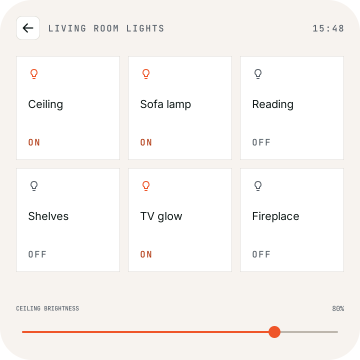
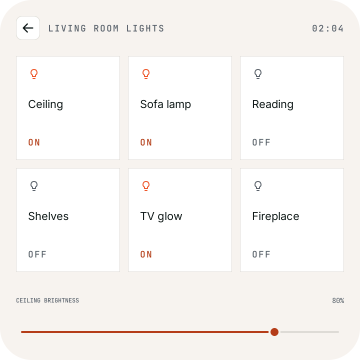
Grid: a row or hug grid refuses Entity tiles; the lights example fixed
An Entity tile fills its cell, and a row / hug grid sizes its cells to
their content, so the tile drew 0 px. The spec checker now refuses it
(bad_slot at .nodes[i].c or .cell.c, naming the component and why): a
spec that would draw nothing is refused, never rendered empty.

The AI example "Living room lights" used both faults: its grid loses
aspect row and its Slider the width prop it never had, so a panel takes
it (KNOWN_REFUSED is empty). Its docs shots re-rendered. Before/after at
720 and 480 seen and approved.

diff --git a/renderer/core/spec.h b/renderer/core/spec.h
@@ -600,6 +600,17 @@ inline void check_grid(ArduinoJson::JsonVariantConst n, ArduinoJson::JsonArrayCo
     else if (sa.size() != 2 || !sa[0].is<int>() || !sa[1].is<int>() || sa[0].as<int>() < 1 || sa[0].as<int>() > cols || sa[1].as<int>() < 1 || sa[1].as<int>() > 8)
       err(e, p + ".span", "bad_span", "span is [columns 1.." + std::to_string(cols) + ", rows 1..8]");
   }
+  // a row / hug grid sizes its cells to their content; a component with no size of its own (it fills its cell) draws
+  // nothing there, so the spec is refused, never rendered empty
+  auto sized_by_cell = [](const std::string &comp, ArduinoJson::JsonVariantConst g, const std::string &path, Errs &e) {
+    const char *a = g["p"]["aspect"] | "square";
+    if (comp == "entity_tile" && (!strcmp(a, "row") || !strcmp(a, "hug")))
+      err(e, path, "bad_slot", comp + " fills its cell and a grid with aspect " + a + " sizes its cells to their content: it would draw 0 px; use aspect square or wide");
+  };
+  if (n["in"].is<int>()) {
+    const int k = n["in"] | -1;
+    if (k >= 0 && k < i && !strcmp(nodes[k]["c"] | "", "grid")) sized_by_cell(c, nodes[k], p + ".c", e);
+  }
   if (c == "grid") {
     if (!n["p"]["cols"].isNull() && !n["p"]["min"].isNull()) err(e, p + ".p.min", "bad_prop", "cols or min, not both");
     if (!n["cell"].isNull() && n["p"]["items"].isNull()) err(e, p + ".cell", "bad_cell", "cell goes with items");
@@ -613,6 +624,7 @@ inline void check_grid(ArduinoJson::JsonVariantConst n, ArduinoJson::JsonArrayCo
   if (slots_of(cc.c_str())) { err(e, p + ".cell.c", "bad_cell", "a cell can't be a layout (no grids in grids)"); return; }
   if (const SlotDecl *t = slot_named("grid", "item"); t && !slot_takes(*t, cc))
     err(e, p + ".cell.c", "bad_slot", "a grid's item cell takes " + slot_list(*t) + ", not " + cc);
+  sized_by_cell(cc, n, p + ".cell.c", e);
   static const char *const CK[] = {"c", "p"};
   check_keys(cn.as<ArduinoJson::JsonObjectConst>(), CK, 2, p + ".cell", e);
   for (ArduinoJson::JsonPairConst kv : cn["p"].as<ArduinoJson::JsonObjectConst>()) {
